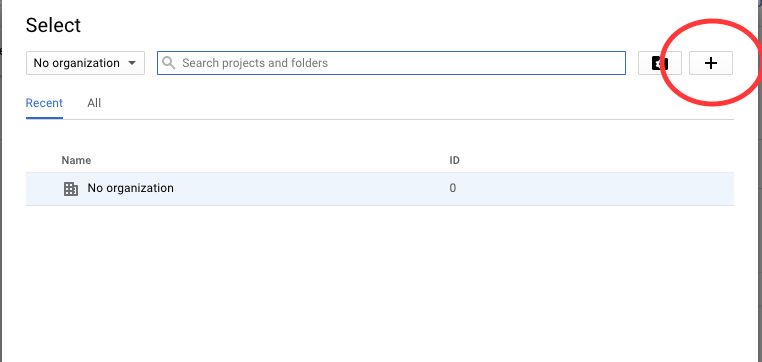
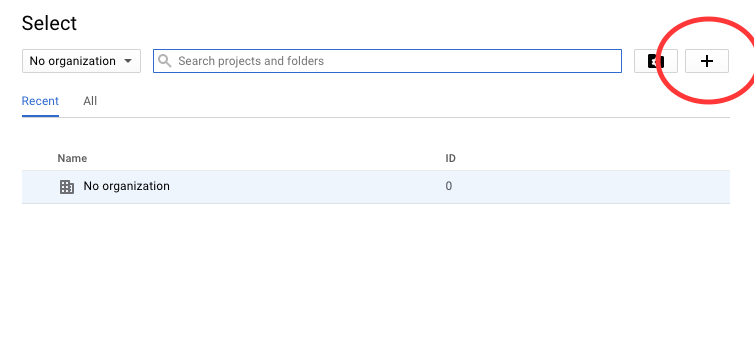
auth added one more image to make steps clearer cleaned up existing steps

diff --git a/docs/google_login.md b/docs/google_login.md
@@ -6,8 +6,11 @@ layout: default
 # Enabling Google Login
 <br>
 In order to take advantage of the Login with Google feature in Formulize first it is necessary to enable the feature.
+This can be done as an Admin by navigating to Preferences >> Site Preferences >> Authentication. Then select "Yes" to enable Google Authentication. 
+This will display the "Login with Google" link to all users who visit the Formulize homepage.
 
-Also make sure that the email account you have supplied in your Formulize user account is the one that you will be using to login with Google.
+Users who intend to use this feature must make sure that the email account that they have supplied in their Formulize user account is the one that they will be using to login with Google.
+This can be changed at any time in Formulize by clicking the "Edit Account" button at the top of the page. 
 
 # Obtain Credentials from Google
 <br>
@@ -17,30 +20,40 @@ Visit this link to get started on the process: [Google setup](https://console.de
 
 Follow along with the steps below after visiting the link.
 
-### First create a project:
+## First create a project:
+<br>
+
 ![image](../images/createproj.png)
 
 ![image](../images/addnewproj.png)
 
 Name the project Formulize for convenience sake.
 
-### Set a product name on the OAuth consent screen:
+## Set a product name on the OAuth consent screen:
+<br>
 
 ![image](../images/productname.png)
 
 Also set the product name here to Formulize. This name is displayed to users who click on the "Login with Google" url on the Formulize homepage.
 
-### Next select OAuth client ID from the "Create Credentials" dropdown:
+## Configure the credentials:
+<br>
+
+![image](../images/selectcreateclientID.png)
+
+Select OAuth client ID from the "Create Credentials" dropdown.
 
 ![image](../images/createclientID.png)
 
 Select Web application. It does not matter what the application name is here. You **must** provide an authorized redirect URI. 
-This will dependent on your exact setup of Formulize. For example if I am hosting Formulize on a webserver on my own machine I would enter: http://localhost/formulize.  
+This will dependent on your exact setup of Formulize. You will want this url to be the url of the homepage of Formulize under your current setup.
+For example if I am hosting Formulize on a webserver on my own machine I would enter: http://localhost/formulize.  
 
-### Lastly download the credentials:
+## Lastly download the credentials:
+<br>
 
 ![image](../images/downloadcreds.png)
 
 Place the file in your Formulize Trust Path and **rename** it to client_secrets.json.
 
-### Thats it! Login with Google should now be ready to go!
+## Thats it! Login with Google should now be ready to go!
